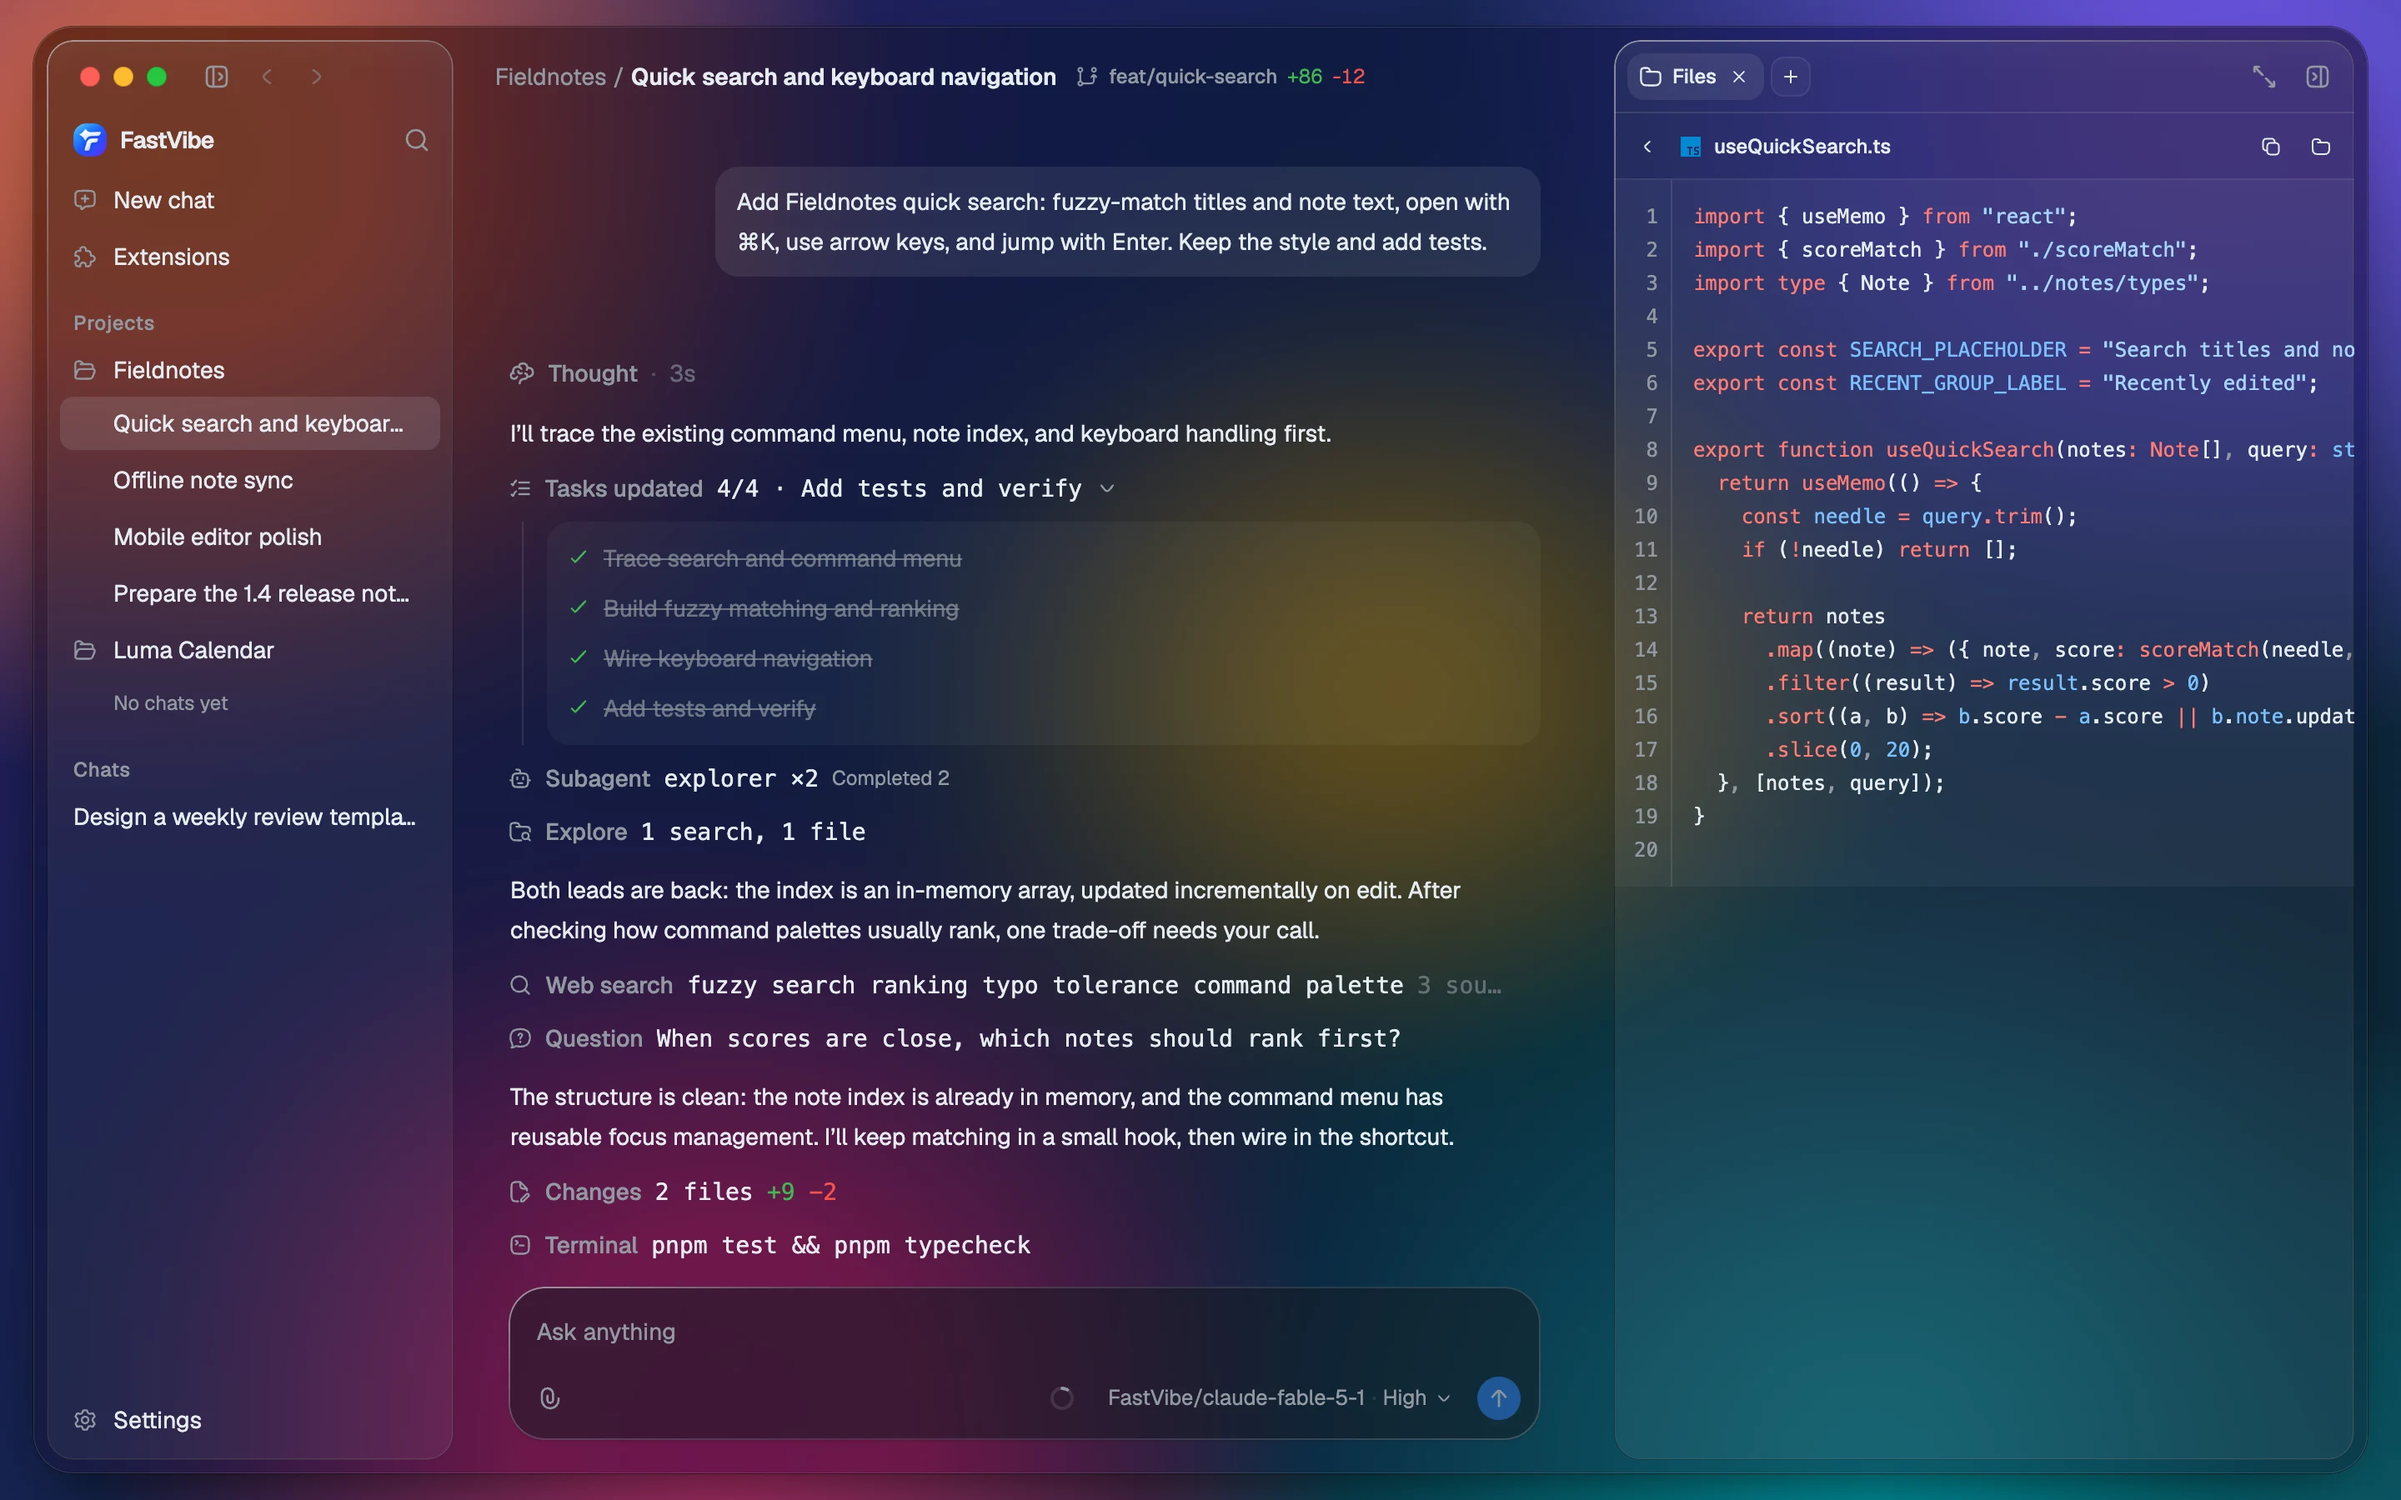
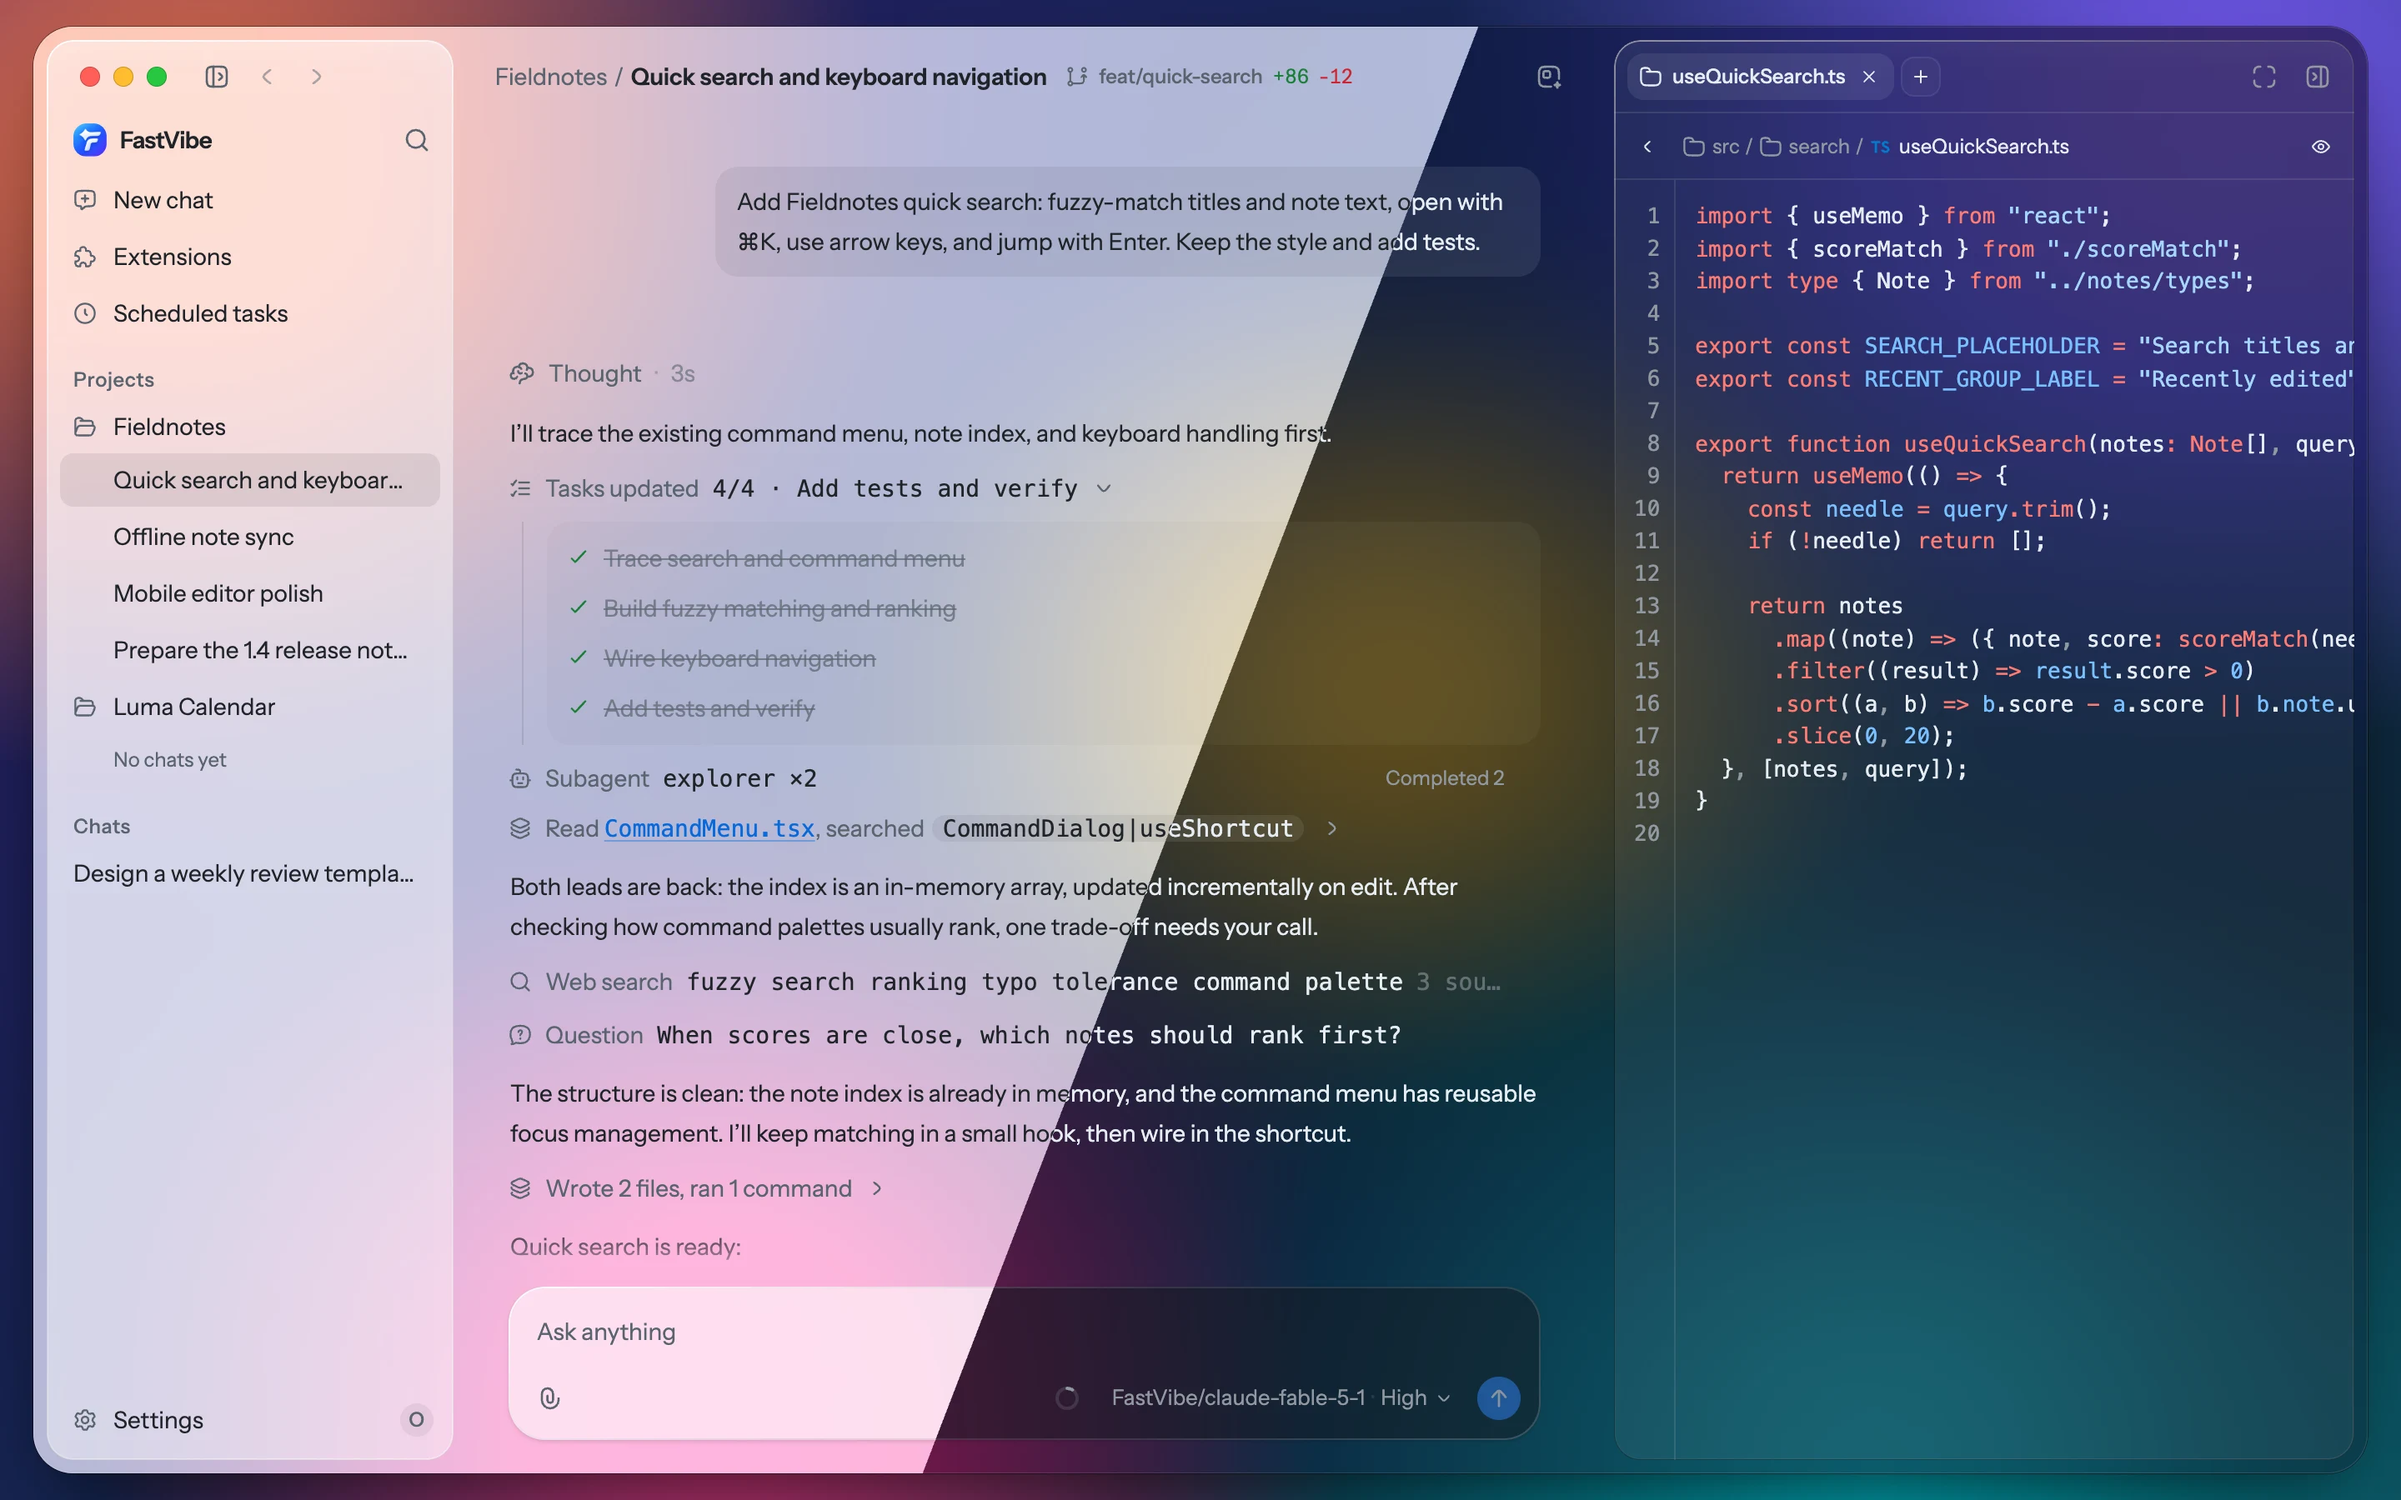
docs: split the README hero between the light and dark themes
The hero was one dark frame, which said less about the app than the
interface does. It is now the same scene cut on a diagonal: light on the
left of the line, dark on the right.

Both halves come from one page load of the renderer fixture, with the
theme switched in place through the same `fastvibe-website-theme` message
the marketing site's own iframe answers. Two loads of one URL would be two
different moments of the scene settling, and the seam would then land on a
sidebar row in one half and on nothing in the other.

`scripts/capture-readme-hero.mjs` is the committed path back to the images
(it was hand-built before, and the shot had drifted behind the UI). It
composites in a canvas rather than an image tool because Chromium is the
only thing here that writes WebP, and the seam wants its antialiased clip
anyway.

diff --git a/AGENTS.md b/AGENTS.md
@@ -1191,6 +1191,15 @@ is only offered where there is a blur to show (`HAS_VIBRANCY`). `src/shared/glas
   repository, `tyuan511/fastvibe-services`) loads this same page in its hero iframe and takes
   its product screenshots from it; both pass `desktop=1`, and the window is concentric with
   the panes (24px radius = 8px inset + 16px pane radius), so keep the two in step.
+- **The README hero is one frame of that scene cut on a diagonal** (`node
+  scripts/capture-readme-hero.mjs` → `docs/images/workspace-{en,zh}.webp`): light on the left
+  of the line, dark on the right. Both halves come from **one page load** — the theme is
+  switched in place with the same `fastvibe-website-theme` message the site's own iframe
+  answers — because the fixture is still unfolding while it settles, so two loads of one URL
+  are two different moments and the seam would land on a sidebar row in one half and on
+  nothing in the other. The compositing is a canvas in the browser rather than an image tool:
+  Chromium is the only thing here that writes WebP, and the seam wants its antialiased clip
+  anyway.
 
 ### Type scale & interface size
 
@@ -2473,6 +2482,9 @@ pnpm test           # node's own runner over test/*.test.ts — pure modules onl
 pnpm check:scripts  # only the browser page scripts (a compile error there is a
                     # `Script failed to execute` at tool-call time, not a build error)
 pnpm shadcn add <component> -y
+
+# README 首图（亮/暗斜线分割）：复用或自起 vite，需要 Chrome/Chromium 与 playwright
+node scripts/capture-readme-hero.mjs
 
 # SQLite 存储的演练与基线（都不碰正在运行的数据目录）
 node scripts/drill-sqlite-import.mjs   # 复制真实 userData 到临时目录，跑一遍旧 JSON 导入并比对行数/往返

diff --git a/README.md b/README.md
@@ -13,7 +13,7 @@ An AI agent workspace for code, documents, and everyday tasks. Work with your ow
 
 [Download](#download) · [Get started](#get-started) · [Features](#features) · [Use your phone](#use-your-phone) · [Development](#development) · [Release notes / 更新说明](docs/release/README.md)
 
-![FastVibe workspace with conversations and tools](docs/images/workspace-en.webp)
+![The FastVibe workspace, split diagonally between its light theme (left) and dark theme (right)](docs/images/workspace-en.webp)
 
 ## Download
 

diff --git a/README.zh-CN.md b/README.zh-CN.md
@@ -13,7 +13,7 @@
 
 [下载](#下载) · [开始使用](#开始使用) · [功能](#功能) · [用手机继续工作](#用手机继续工作) · [开发](#开发) · [更新说明 / Release notes](docs/release/README.md)
 
-![FastVibe 工作区：对话与工具调用](docs/images/workspace-zh.webp)
+![FastVibe 工作区，斜线分割：左半亮色主题，右半暗色主题](docs/images/workspace-zh.webp)
 
 ## 下载
 
